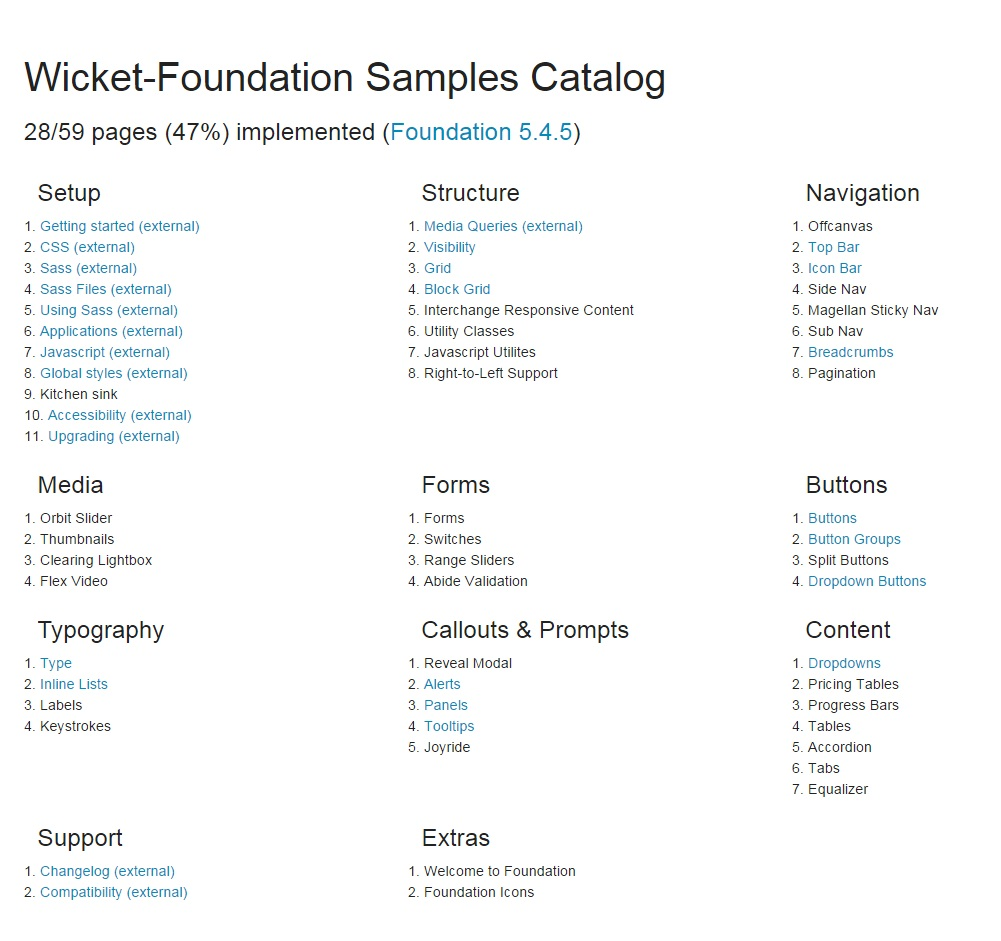
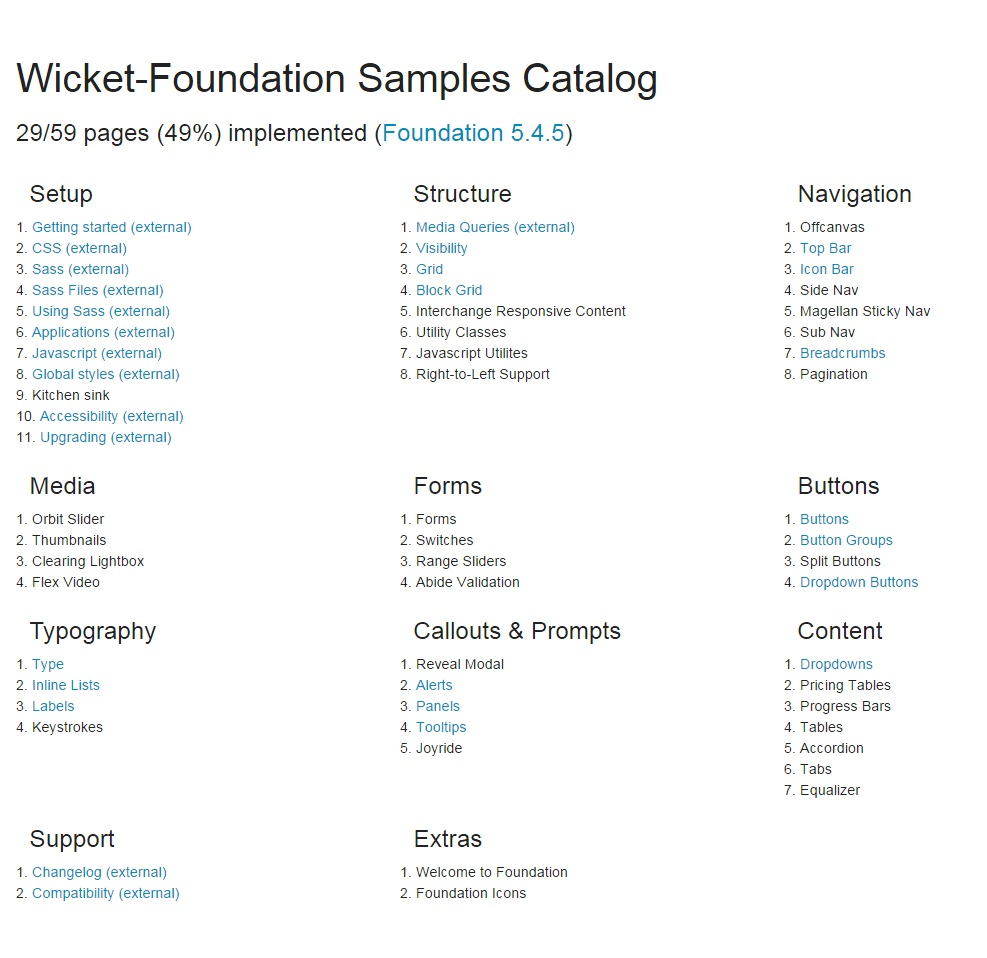
Added label sample page. Updated catalog page and screenshot with current status.

diff --git a/wicket-foundation-samples/src/main/java/com/iluwatar/LabelPage.html b/wicket-foundation-samples/src/main/java/com/iluwatar/LabelPage.html
@@ -1,0 +1,81 @@
+<!DOCTYPE html>
+<html xmlns:wicket="http://wicket.apache.org">
+<head>
+<meta charset="utf-8" />
+<title>wicket-foundation</title>
+</head>
+<body>
+    <wicket:extend>
+
+        <div class="row">
+            <h1 id="labels">Labels</h1>
+            <h3 class="subheader">Labels are useful inline styles
+                that can be dropped into body copy to call out certain
+                sections or to attach metadata. For example, you can
+                attach a label that notes when something was updated.</h3>
+
+            <hr>
+            <h2>Basic</h2>
+
+            <p>You can create a label using minimal markup.</p>
+            <div>
+                <div>
+                    <h4>HTML</h4>
+                    
+<pre><code class="language-html"><div class="code-container"><span class="tag">&lt;<span class="title">span</span> <span class="attribute">wicket:id</span>=<span class="value">&quot;basic&quot;</span>&gt;</span><span class="tag">&lt;/<span class="title">span</span>&gt;</span>
+</div></code>
+</pre>
+
+                </div>
+                <div>
+                    <h4>Java</h4>
+                    
+<pre><code class="language-html"><div class="code-container">add(new FoundationLabel("basic", "Regular label"));
+</div></code>
+</pre>
+
+                </div>
+                <div>
+                    <h4>Rendered HTML</h4>
+                    <span wicket:id="basic"></span>
+                </div>
+            </div>
+
+            <hr>
+            <h2>Advanced</h2>
+
+            <p>Additional classes can be added to your labels to
+                change their appearance.</p>
+            <div>
+                <div>
+                    <h4>HTML</h4>
+                    
+<pre><code class="language-html"><div class="code-container"><span class="tag">&lt;<span class="title">div</span> <span class="attribute">wicket:id</span>=<span class="value">&quot;radiusSecondary&quot;</span>&gt;</span><span class="tag">&lt;/<span class="title">div</span>&gt;</span>
+<span class="tag">&lt;<span class="title">div</span> <span class="attribute">wicket:id</span>=<span class="value">&quot;roundAlert&quot;</span>&gt;</span><span class="tag">&lt;/<span class="title">div</span>&gt;</span>
+<span class="tag">&lt;<span class="title">div</span> <span class="attribute">wicket:id</span>=<span class="value">&quot;success&quot;</span>&gt;</span><span class="tag">&lt;/<span class="title">div</span>&gt;</span>
+</div></code>
+</pre>
+
+                </div>
+                <div>
+                    <h4>Java</h4>
+                    
+<pre><code class="language-html"><div class="code-container">add(new FoundationLabel(&quot;radiusSecondary&quot;, &quot;Radius Secondary Label&quot;, new LabelOptions(ButtonColor.SECONDARY, ButtonRadius.RADIUS)));
+add(new FoundationLabel(&quot;roundAlert&quot;, &quot;Round Alert Label&quot;, new LabelOptions(ButtonColor.ALERT, ButtonRadius.ROUND)));
+add(new FoundationLabel(&quot;success&quot;, &quot;Success Label&quot;, new LabelOptions(ButtonColor.SUCCESS)));
+</div></code>
+</pre>
+
+                </div>
+                <div class="verticalPadding50">
+                    <h4>Rendered HTML</h4>
+                    <div wicket:id="radiusSecondary"></div>
+                    <div wicket:id="roundAlert"></div>
+                    <div wicket:id="success"></div>
+                </div>
+            </div>
+        </div>
+
+    </wicket:extend>
+</body>
+</html>

diff --git a/wicket-foundation-samples/src/main/java/com/iluwatar/CatalogPage.html b/wicket-foundation-samples/src/main/java/com/iluwatar/CatalogPage.html
@@ -11,7 +11,7 @@
 		<h1>Wicket-Foundation Samples Catalog</h1>
 	</div>
     <div class="row">
-      <h3>28/59 pages (47%) implemented (<a href="http://foundation.zurb.com/" target="blank">Foundation 5.4.5</a>)</h3>
+      <h3>29/59 pages (49%) implemented (<a href="http://foundation.zurb.com/" target="blank">Foundation 5.4.5</a>)</h3>
     </div>
 
     <p>
@@ -100,7 +100,7 @@
             <h3>Typography</h3>
             <div class="row">1. <a href="TypePage.html">Type</a></div>
             <div class="row">2. <a href="InlineListsPage.html">Inline Lists</a></div>
-            <div class="row">3. Labels</div>
+            <div class="row">3. <a href="LabelPage.html">Labels</a></div>
             <div class="row">4. Keystrokes</div>
           </wicket:link>
         </div>

diff --git a/wicket-foundation-samples/src/main/java/com/iluwatar/LabelPage.java b/wicket-foundation-samples/src/main/java/com/iluwatar/LabelPage.java
@@ -1,0 +1,21 @@
+package com.iluwatar;
+
+import org.apache.wicket.request.mapper.parameter.PageParameters;
+
+import com.iluwatar.foundation.button.ButtonColor;
+import com.iluwatar.foundation.button.ButtonRadius;
+import com.iluwatar.foundation.label.FoundationLabel;
+import com.iluwatar.foundation.label.LabelOptions;
+
+public class LabelPage extends BasePage {
+
+	private static final long serialVersionUID = 1L;
+
+	public LabelPage(PageParameters params) {
+		super(params);
+		add(new FoundationLabel("basic", "Regular Label"));
+		add(new FoundationLabel("radiusSecondary", "Radius Secondary Label", new LabelOptions(ButtonColor.SECONDARY, ButtonRadius.RADIUS)));
+		add(new FoundationLabel("roundAlert", "Round Alert Label", new LabelOptions(ButtonColor.ALERT, ButtonRadius.ROUND)));
+		add(new FoundationLabel("success", "Success Label", new LabelOptions(ButtonColor.SUCCESS)));
+	}
+}
